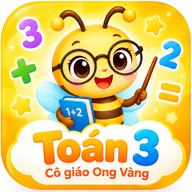
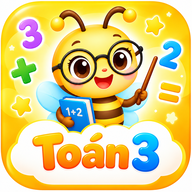
Add files via upload

diff --git a/index.html b/index.html
@@ -10,7 +10,8 @@
     <meta name="apple-mobile-web-app-status-bar-style" content="default">
     <link rel="manifest" href="manifest.json">
     <title>Toán 3 - Cô giáo Ong Vàng</title>
-    <link rel="icon" type="image/svg+xml" href="favicon.svg">
+    <link rel="icon" type="image/png" sizes="192x192" href="icon-192.png">
+    <link rel="apple-touch-icon" href="apple-touch-icon.png">
     <!-- Tailwind CSS CDN -->
     <script src="https://cdn.tailwindcss.com"></script>
     <!-- Font Awesome 6 -->
@@ -103,12 +104,11 @@
         <div id="screen-login" class="hidden fixed inset-0 z-[70] bg-slate-900/55 backdrop-blur-sm flex items-center justify-center p-3" onclick="if(event.target===this) closeAuthModal()">
             <div class="w-full max-w-md pastel-card p-6 md:p-8 flex flex-col items-center text-center my-auto relative max-h-[95vh] overflow-y-auto">
                 <button onclick="closeAuthModal()" class="absolute right-4 top-4 w-9 h-9 rounded-full bg-yellow-50 border border-yellow-200 text-gray-500 hover:text-orange-600 flex items-center justify-center" title="Đóng"><i class="fa-solid fa-xmark"></i></button>
-            <div class="mb-2">
-                <span class="text-7xl md:text-8xl swaying select-none">🐝</span>
+            <div class="mb-2 flex flex-col items-center">
+                <img src="icon-512.png" alt="Toán 3" class="w-28 h-28 md:w-32 md:h-32 object-contain rounded-[28%] shadow-md select-none">
             </div>
 
-            <h1 class="text-2xl md:text-3xl font-extrabold text-yellow-600 tracking-wide mb-1">Toán 3</h1>
-            <p class="text-sm font-bold text-orange-600 mb-5">Cô giáo Ong Vàng</p>
+            <p class="text-base md:text-lg font-extrabold text-orange-600 mb-5">Cô giáo Ong Vàng</p>
 
             <div class="w-full grid grid-cols-2 bg-yellow-50 rounded-2xl p-1 mb-5 border border-yellow-200">
                 <button id="tab-btn-login" onclick="switchAuthTab('login')" class="py-2.5 rounded-xl font-extrabold text-sm pastel-btn bg-white text-yellow-600 shadow-sm">Đăng nhập</button>
@@ -173,14 +173,10 @@
         <!-- 2. KHUNG CHÍNH CHUẨN TỶ LỆ 16:9 / 16:10 -->
         <div id="screen-dashboard" class="w-full max-w-5xl flex flex-col space-y-1.5 md:space-y-2 p-1 md:p-2">
             
-            <header class="w-full bg-white/95 backdrop-blur-md px-3.5 py-2 rounded-2xl shadow-sm border-2 border-yellow-200 flex flex-col md:flex-row justify-between items-center gap-2">
-                <div class="flex items-center space-x-2 w-full md:w-auto justify-between md:justify-start overflow-x-auto pb-0.5">
-                    <button id="btn-header-home" onclick="goHome()" title="Về trang chủ" class="h-12 flex items-center gap-1.5 bg-gradient-to-br from-yellow-50 via-orange-50 to-orange-50 pl-2 pr-3 rounded-2xl border-2 border-yellow-300 shadow-sm shrink-0 transition-all duration-200 hover:border-yellow-400 hover:shadow-[0_0_18px_rgba(250,204,21,0.65)]">
-                        <span class="w-8 h-8 flex items-center justify-center bg-white rounded-full text-lg shadow-inner border border-yellow-200 shrink-0">🐝</span>
-                        <span class="flex flex-col items-center text-center leading-none">
-                            <span class="text-sm font-black bg-gradient-to-r from-yellow-600 to-orange-500 bg-clip-text text-transparent tracking-wide whitespace-nowrap">Toán 3</span>
-                            <span class="text-[10px] font-bold text-orange-500 mt-0.5 whitespace-nowrap">Cô giáo Ong Vàng</span>
-                        </span>
+            <header class="w-full bg-white/95 backdrop-blur-md px-2 py-1 rounded-2xl shadow-sm border-2 border-yellow-200 flex flex-col md:flex-row justify-between items-center gap-2">
+                <div class="flex items-center space-x-2 w-full md:w-auto justify-between md:justify-start overflow-x-auto">
+                    <button id="btn-header-home" onclick="goHome()" title="Về trang chủ" class="w-[62px] h-[62px] flex items-center justify-center bg-white rounded-xl border border-yellow-300 shadow-sm shrink-0 overflow-hidden p-0 transition-shadow duration-200 hover:border-yellow-400 hover:shadow-[0_0_18px_rgba(250,204,21,0.75)]">
+                        <img src="icon-192.png" alt="Trang chủ Toán 3" class="w-full h-full object-cover">
                     </button>
 
                     <div id="header-level2-tab" class="hidden items-center">
@@ -642,8 +638,9 @@
     </div>
 
     <!-- CHÂN TRANG BẢN QUYỀN CHUẨN ĐỊNH DẠNG -->
-    <footer class="w-full mt-2 md:mt-3 pb-2 text-center text-sm font-bold text-yellow-500 tracking-wider">
-        epsilon.vn@gmail.com
+    <footer class="w-full mt-2 md:mt-3 pb-2 text-center font-bold text-yellow-500 tracking-wide leading-relaxed">
+        <div class="text-sm md:text-base">Chương trình Toán 3 - Cô giáo Ong Vàng</div>
+        <div class="text-xs md:text-sm mt-0.5">epsilon.vn@gmail.com</div>
     </footer>
 
     <!-- NẠP ENGINE JAVASCRIPT ĐỒNG BỘ -->
